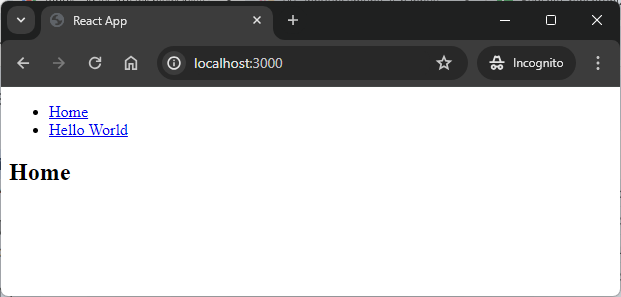
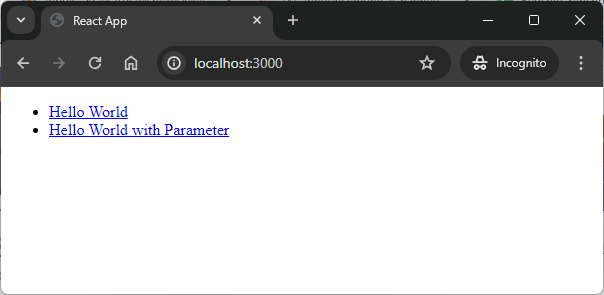
Update Readme images

diff --git a/technologies/routing/js-react-gui-html-helloworld-route-switch/README.md b/technologies/routing/js-react-gui-html-helloworld-route-switch/README.md
@@ -11,9 +11,9 @@ Usage steps:
 1. In a command line tool install nmp packages with `npm install`
 1. In a command line tool start application with `npm start`
 1. In a http browser (e.g. Chrome) visit `http://localhost:3000`
-   * Expected **Home** page
+   * Expected **Hello World** page
 1. In a http browser click on link `Hello World`
-   * Expected **Hello World** page with message **Hello World stranger!**
+   * Expected **Hello World Params** page
 1. Clean up environment 
      * In a command line tool stop application with `ctrl + C`
 
